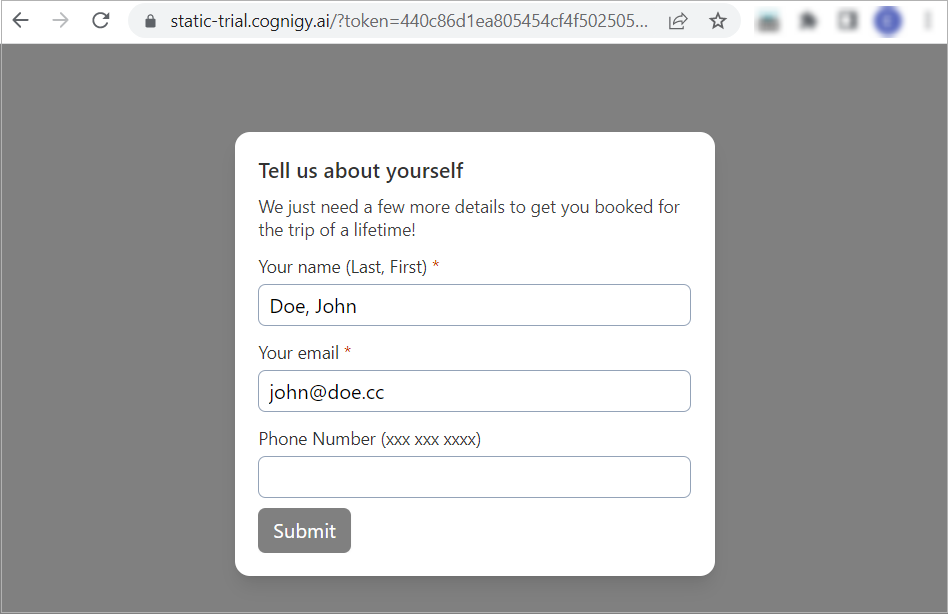
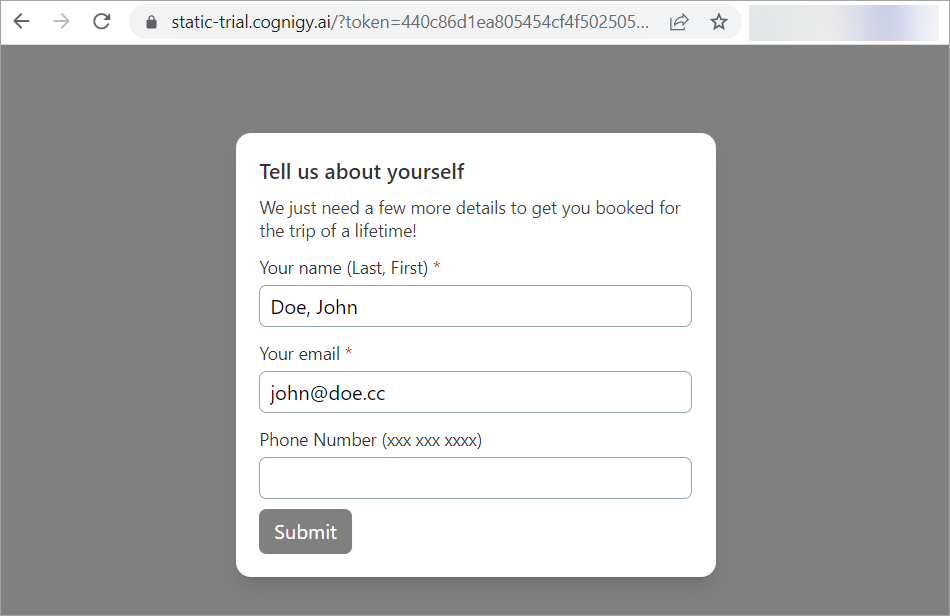
improved screenshot quality

diff --git a/docs/en/docs/ai/xApp/create-standalone-xApp-tutorial.md b/docs/en/docs/ai/xApp/create-standalone-xApp-tutorial.md
@@ -20,15 +20,15 @@ In this tutorial, you will learn how to build and deploy an xApp Flow as a stand
 2. In the Flow Editor, add an **xApp: Init Session** Node.
 3. Open the Node editor and fill in the following fields:
     - In the **Style Customization** section:
-        - Background Color - specify `darkslategray`.
-        - Logo - select **Show Default Logo**.
+        - Background Color — specify `darkslategray`.
+        - Logo — select **Show Default Logo**.
     - In the **xApp Screens** section:
-        - Loading Text - specify `Loading...`
+        - Loading Text — specify `Loading...`
     - In the **Intermediate Screen** section:
-        - Customization type - select **Customized Texts** from the list.
-        - Text Override - enter `Thank you for the info. You can now close this tab`.
+        - Customization type — select **Customized Texts** from the list.
+        - Text Override — enter `Thank you for the info. You can now close this tab`.
     - In the **Connection Screen** section:
-        - Customization type - select **No customization**.
+        - Customization type — select **No customization**.
 4. Click **Save Node**.
 
 ### Say Node
